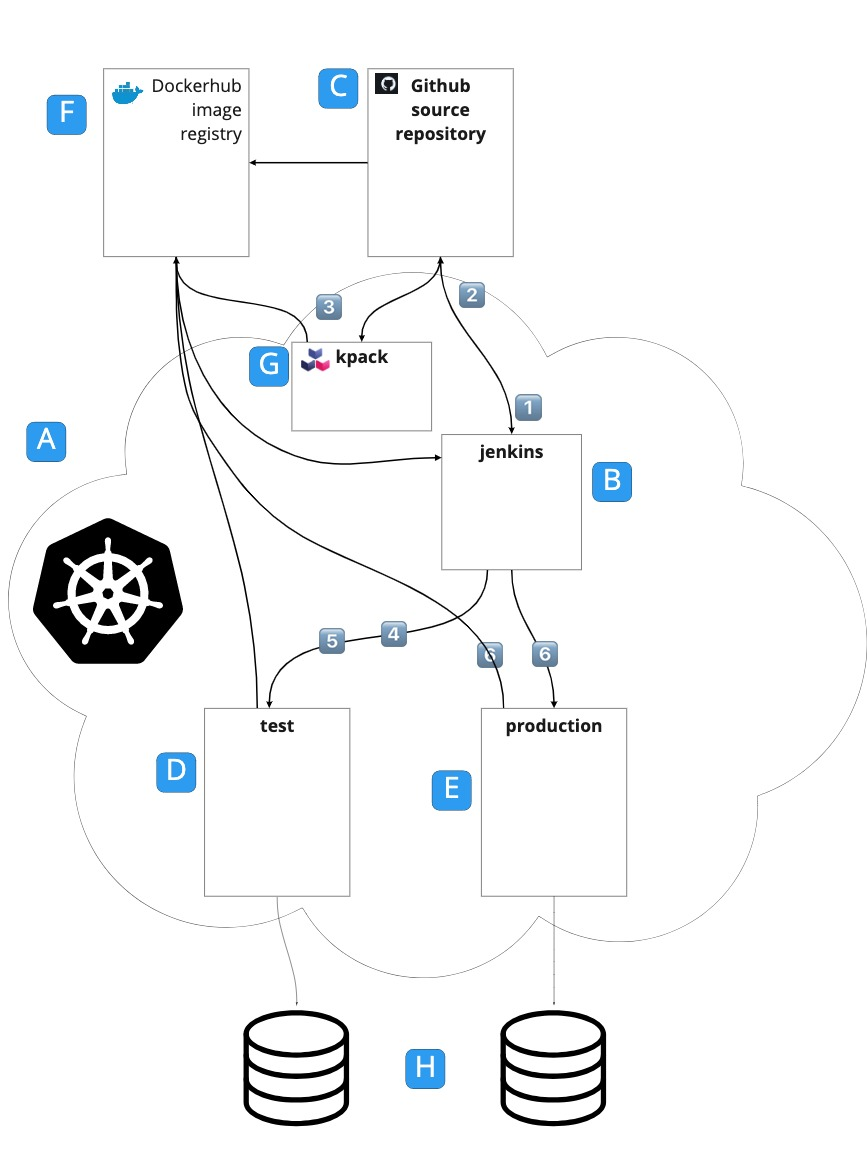
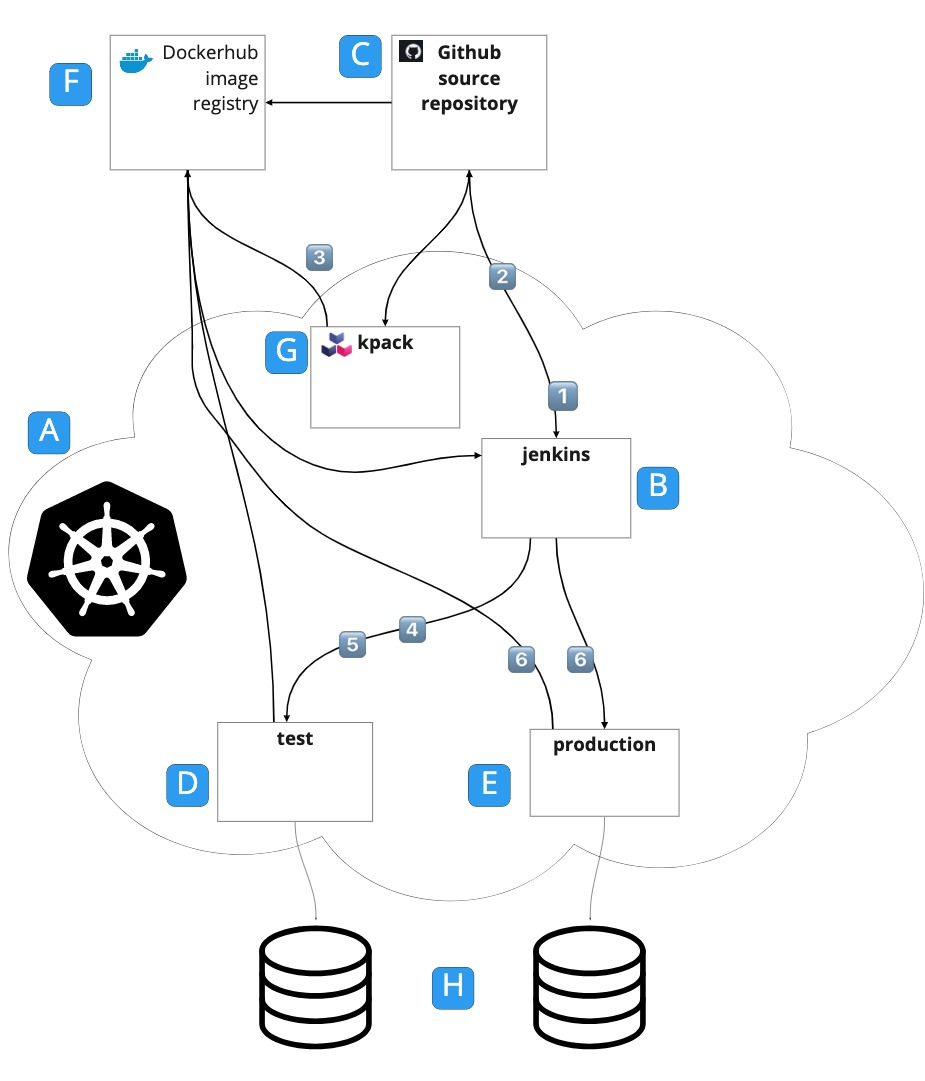
Updated overview image, fixed list formatting

diff --git a/content/learningpaths/worked-example-of-continuous-integration-and-delivery/_index.md b/content/learningpaths/worked-example-of-continuous-integration-and-delivery/_index.md
@@ -1,8 +1,8 @@
 ---
 title: Worked Example of Continuous Integration and Delivery
 weight: -1
-duration: 60
-experience: Beginner
+duration: 180
+experience: Intermediate
 layout: intro
 description:  Work through building an example continuous integration and delivery (CI/CD) pipeline step-by-step 
 team:
@@ -27,21 +27,16 @@ The diagram below shows the overall picture of this example, which consists of a
 
 These are the items in the diagram above: 
 
-A.  Kubernetes cluster: For simplicity, you can use a minikube cluster running on your local machine. The only thing that doesn’t work in this scenario is connecting a webhook from Docker Hub to Jenkins. We’ll show you a workaround to get the example working, but it isn’t suitable for production use. 
-
-B.  Jenkins namespace hosting a Jenkins instance 
-
-C.  Source code for the application stored in the Github repository 
-
-D.  Namespace for the test environment 
-
-E.  Namespace for the production environment 
-
-F.  Image repository where your container images are stored. You can use a free account on [Docker Hub](http://hub.docker.com) for your repository, but we’ll discuss alternatives later in this article. 
-
-G.  Kpack installation: kpack builds the container images for your application 
-
-H.  Database instances for test and production environments 
+<ol type="A">
+    <li>Kubernetes cluster: For simplicity, you can use a minikube cluster running on your local machine. The only thing that doesn’t work in this scenario is connecting a webhook from Docker Hub to Jenkins. We’ll show you a workaround to get the example working, but it isn’t suitable for production use.</li>
+    <li>Jenkins namespace hosting a Jenkins instance</li>
+    <li>Source code for the application stored in the Github repository</li>
+    <li>Namespace for the test environment</li>
+    <li>Namespace for the production environment</li>   
+    <li>Image repository where your container images are stored. You can use a free account on [Docker Hub](http://hub.docker.com) for your repository, but we’ll discuss alternatives later in this article.</li>
+    <li>Kpack installation: kpack builds the container images for your application</li> 
+    <li>Database instances for test and production environments</li>
+</ol>
 
 Each time code is committed to the main branch on the source repository, the following happens: 
 
